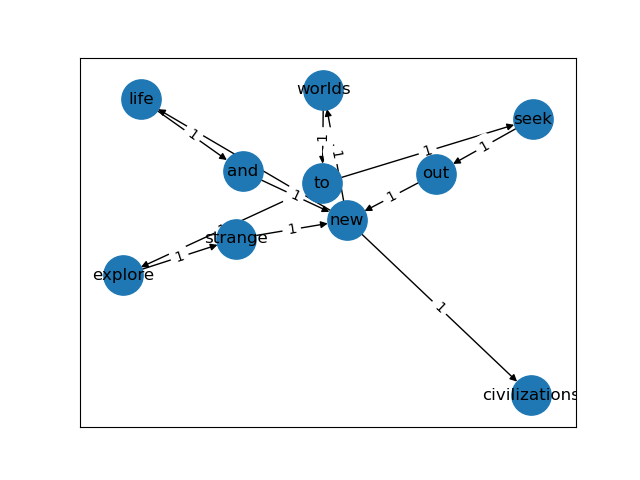
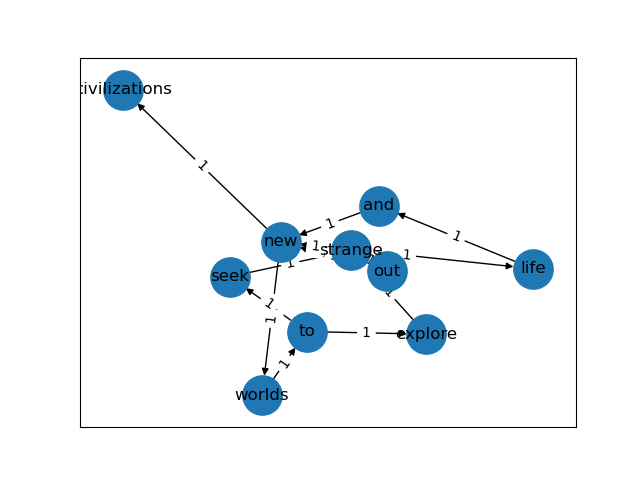
first commit

diff --git a/test.py b/test.py
@@ -1,0 +1,346 @@
+import sys
+import string
+import networkx as nx
+import matplotlib.pyplot as plt
+import random
+import numpy as np
+
+class Create_Directed_Graph:
+    def __init__(self,file_name):
+        self.file_name = file_name
+
+    def createDirectedGraph(self):
+        # 文本预处理
+        with open(self.file_name,'r') as f:
+            text = f.read()
+
+            # 将换行和回车符替换为空格
+            text = text.replace('\n',' ').replace('\r',' ')
+
+            # 将标点符号替换为空格
+            punctuations = string.punctuation # 获取所有标点符号
+            for punctuation in punctuations:
+                text = text.replace(punctuation,' ')
+
+            # 忽略非字母字符
+            text = ''.join(word for word in text if word.isalpha() or word.isspace())
+
+            # 转换成小写字母
+            text = text.lower()
+
+        text = [s for s in text.split(' ') if len(s) != 0] # 获得单词列表
+
+        # 生成有向图
+        # 创建字典保存两点之间的权值 键：(word1,word2) 值：word1和word2相邻次数
+        graph = {}
+        for i in range(len(text) - 1):
+            word1 = text[i]
+            word2 = text[i + 1]
+
+            # 如果这两个单词之前不在边权字典里，那就将它俩加入
+            if (word1,word2) not in graph.keys():
+                graph[(word1,word2)] = 1
+            else:
+                graph[(word1, word2)] = graph[(word1,word2)] + 1
+
+        return graph
+
+
+def draw_graph(graph):
+    G = nx.DiGraph()
+    for key, value in graph.items():
+        key = list(key)
+        node1 = key[0]
+        node2 = key[1]
+        G.add_edge(node1, node2, weight=value)
+
+    return G
+
+class Show_Directed_Graph:
+    def __init__(self,file_name):
+        self.file_name = file_name
+
+    def showDirectedGraph(self,graph):
+        G = draw_graph(graph=graph)
+
+        pos = nx.spring_layout(G)
+        labels = nx.get_edge_attributes(G,'weight')
+        nx.draw_networkx(G,pos,node_size=800)
+        nx.draw_networkx_edge_labels(G,pos,edge_labels=labels)
+        plt.savefig('directed_graph/graph_' + self.file_name + '_.png')
+        plt.show()
+
+def find_bridge_words(graph, word_1, word_2):
+    key_tuples = list(graph.keys())
+    word_set = set()
+    for key_tuple in key_tuples:
+        key_list = list(key_tuple)
+        word_set.add(key_list[0])
+        word_set.add(key_list[1])
+
+    # 如果word1或word2不在图中
+    if word_1 not in word_set or word_2 not in word_set:
+        return 'NOT_IN'
+
+    # 如果word1和word2都在图中
+    else:
+        bridge_word_list = []  # 保存桥接词的列表
+        # 遍历单词集合，寻找符合桥接条件的单词
+        for word in word_set:
+            if (word_1, word) in key_tuples and (word, word_2) in key_tuples:
+                bridge_word_list.append(word)
+
+        return bridge_word_list
+
+class Query_Bridge_Words:
+    def __init__(self, graph):
+        self.graph = graph
+
+
+
+    def print_words(self,word_1,word_2,bridge_word_list):
+        num = len(bridge_word_list)
+
+        if num == 0:
+            print('No bridge words from word1 to word2!')
+
+        elif num == 1:
+            print('The bridge word from "', word_1, '" to "', word_2, '" is:', bridge_word_list[0])
+        else:
+            sys.stdout.write('The bridge words from "')
+            sys.stdout.write(word_1)
+            sys.stdout.write('" to "')
+            sys.stdout.write(word_2)
+            sys.stdout.write('" are:')
+            for i in range(num - 1):
+                sys.stdout.write(bridge_word_list[i])
+                sys.stdout.write(',')
+            sys.stdout.write('and ')
+            sys.stdout.write(bridge_word_list[-1])
+            sys.stdout.write('.')
+
+    def queryBridgeWords(self, word_1, word_2):
+        bridge_word_list = find_bridge_words(self.graph,word_1,word_2)
+        if bridge_word_list == 'NOT_IN':
+            print('No word1 or word2 in the graph!')
+        else:
+            self.print_words(word_1,word_2,bridge_word_list)
+
+class Generate_New_Text:
+    def __init__(self,graph):
+        self.graph = graph
+
+    def generateNewText(self,inputText):
+        text_list = inputText.split(' ')
+        text_lower = inputText.lower()
+        text_lower_list = text_lower.split(' ')
+        idx = 0  # 每向文本中加入一个桥接词之后，文本列表中后面的词的序号都增加了1，这时候需要在下次加入桥接词时向后移动序号
+        for i in range(len(text_lower_list) - 1):
+            word_1 = text_lower_list[i]
+            word_2 = text_lower_list[i + 1]
+            bridge_word_list = find_bridge_words(self.graph,word_1,word_2)
+            if bridge_word_list == 'NOT_IN':
+                text_list = text_list
+            elif len(bridge_word_list) == 1:
+                text_list.insert(i + 1 + idx,bridge_word_list[0])
+                idx = idx + 1
+            elif len(bridge_word_list) > 1:
+                bridge_word_index = random.randint(0,len(bridge_word_list) - 1)
+                text_list.insert(i + 1 + idx, bridge_word_list[bridge_word_index])
+                idx = idx + 1
+
+        new_Text = ' '.join(word for word in text_list)
+        print('生成的文本为：')
+        print(new_Text)
+
+class Calc_Shortest_Path:
+    def __init__(self,graph):
+        self.graph = graph
+
+    def calcShortestPath(self,word_1,word_2):
+        key_tuples = list(self.graph.keys())
+        word_set = set()
+        for key_tuple in key_tuples:
+            key_list = list(key_tuple)
+            word_set.add(key_list[0])
+            word_set.add(key_list[1])
+
+        # word1和word2都为空
+        if word_1 == '' and word_2 == '':
+            print('两次输入均为空')
+
+        # word1不为空且不在图中，word2为空或者在图中
+        elif word_1 != '' and word_1 not in word_set and (word_2 in word_set or word_2 == ''):
+            print('No',word_1,'in the graph!')
+
+        # word2不为空且不在图中，word1为空或者在图中
+        elif word_2 != '' and word_2 not in word_set and (word_1 in word_set or word_1 == ''):
+            print('No',word_2,'in the graph!')
+
+        # word1和word2都不为空且都不在图中
+        elif word_1 not in word_set and word_2 not in word_set:
+            print('No',word_1,'and',word_2,'in the graph!')
+
+        # 可选功能：只输入了一个单词
+        elif (word_1 == '' and word_2 in word_set) or (word_2 == '' and word_1 in word_set):
+            # 调用draw_graph绘制图
+            G = draw_graph(self.graph)
+            word_input = word_1 if word_1 != '' else word_2
+            for word in word_set:
+                try:
+                    # 计算最短路径
+                    min_path = nx.dijkstra_path(G, source=word_input, target=word)
+                    # 计算最短路径长度
+                    min_path_lenth = nx.dijkstra_path_length(G, source=word_input, target=word)
+                    print(word_input,'和',word,'最短路径长度为：', min_path_lenth)
+
+                except nx.NetworkXNoPath:
+                    print(word_input, '和', word, '不可达')
+
+        # word1和word2都在图中
+        elif word_1 in word_set and word_2 in word_set:
+            # 调用draw_graph绘制图
+            G = draw_graph(self.graph)
+            try:
+                # 计算最短路径
+                min_path = nx.dijkstra_path(G, source=word_1, target=word_2)
+                # 计算最短路径长度
+                min_path_lenth = nx.dijkstra_path_length(G, source=word_1, target=word_2)
+                print('最短路径长度为：', min_path_lenth)
+
+                pos = nx.spring_layout(G)
+                labels = nx.get_edge_attributes(G, 'weight')
+                nx.draw_networkx(G, pos, node_size=800)
+                nx.draw_networkx_edge_labels(G, pos, edge_labels=labels)
+
+                edge_list = []
+                for i in range(len(min_path) - 1):
+                    edge_list.append((min_path[i], min_path[i + 1]))
+                nx.draw_networkx_edges(G, pos, edgelist=edge_list, edge_color='m', width=4)
+                plt.show()
+
+            except nx.NetworkXNoPath:
+                print(word_1,'和',word_2,'不可达')
+
+class Random_Walk:
+    def __init__(self,graph):
+        self.graph = graph
+
+    # 随机游走过程
+    @staticmethod
+    def random_walk_process(matrix,word_list,random_word):
+        # 获取出边到达的节点
+        out_edge = [i for i in range(len(word_list)) if matrix[word_list.index(random_word)][i] != 0]
+        # 如果不存在出边
+        if len(out_edge) == 0:
+            return None,None
+        else:
+            random_out_word = word_list[random.choice(out_edge)]
+            return (random_word,random_out_word),random_out_word # 返回随机游走的边和游走到的节点
+
+    def randomWalk(self):
+        key_tuples = list(self.graph.keys())
+        word_set = set()
+        for key_tuple in key_tuples:
+            key_list = list(key_tuple)
+            word_set.add(key_list[0])
+            word_set.add(key_list[1])
+        word_list = list(word_set)
+
+        # 把字典存储的图转换成邻接矩阵形式
+        matrix = np.zeros([len(word_list),len(word_list)])
+        for tuple in key_tuples:
+            word_1_index = word_list.index(tuple[0])
+            word_2_index = word_list.index(tuple[1])
+            matrix[word_1_index,word_2_index] = self.graph[tuple]
+
+        # 保存游走结果
+        random_walk_list = []
+        # 保存游走的边
+        random_walk_edges = []
+        # 随机选择起点
+        random_word = random.choice(word_list)
+        random_walk_list.append(random_word)
+        while 1:
+            random_walk_edge, random_word = Random_Walk.random_walk_process(matrix=matrix, word_list=word_list,
+                                                                            random_word=random_word)
+            # 如果不存在出边
+            if random_walk_edge is None:
+                break
+            # 如果出现重复的边
+            elif random_walk_edge in random_walk_edges:
+                random_walk_list.append(random_word)
+                break
+            else:
+                random_walk_list.append(random_word)
+                random_walk_edges.append(random_walk_edge)
+
+        output = ' '.join(word for word in random_walk_list)
+        print('随机游走结果为：',output)
+
+        # 写入输出文件
+        output_file = './output_file/output.txt'
+        with open(output_file,'w') as f:
+            f.write(output)
+
+def main():
+    # 获取文本文件名
+    args = sys.argv
+    # file_name = args[1]
+    file_name = '1.txt'
+
+    # 生成有向图
+    create_graph = Create_Directed_Graph(file_name=file_name)
+    graph = create_graph.createDirectedGraph()
+
+    # 功能选择
+    print('请选择功能：')
+    print('1--展示有向图')
+    print('2--查询桥接词')
+    print('3--根据bridge word生成新文本')
+    print('4--计算两个单词之间的最短路径')
+    print('5--随机游走')
+    print('请输入功能序号(1～5)：')
+    index = input()
+    index = int(index)
+
+    # 展示有向图
+    if index == 1:
+        show_graph = Show_Directed_Graph(file_name=file_name)
+        G = show_graph.showDirectedGraph(graph)
+
+    # 查询桥接词
+    elif index == 2:
+        print('请输入单词1:')
+        word_1 = input()
+        print('请输入单词2：')
+        word_2 = input()
+
+        query_words = Query_Bridge_Words(graph=graph)
+        query_words.queryBridgeWords(word_1=word_1,word_2=word_2)
+
+
+    # 根据bridge word生成新文本
+    elif index == 3:
+        print('请输入新文本：')
+        inputText = input()
+        generate_text = Generate_New_Text(graph=graph)
+        generate_text.generateNewText(inputText=inputText)
+
+
+    # 计算两个单词之间的最短路径
+    elif index == 4:
+        print('请输入单词1:')
+        word_1 = input()
+        print('请输入单词2：')
+        word_2 = input()
+
+        calc_path = Calc_Shortest_Path(graph=graph)
+        calc_path.calcShortestPath(word_1=word_1, word_2=word_2)
+
+    # 随机游走
+    elif index == 5:
+        randomwalk = Random_Walk(graph=graph)
+        randomwalk.randomWalk()
+if __name__ == "__main__":
+    main()
